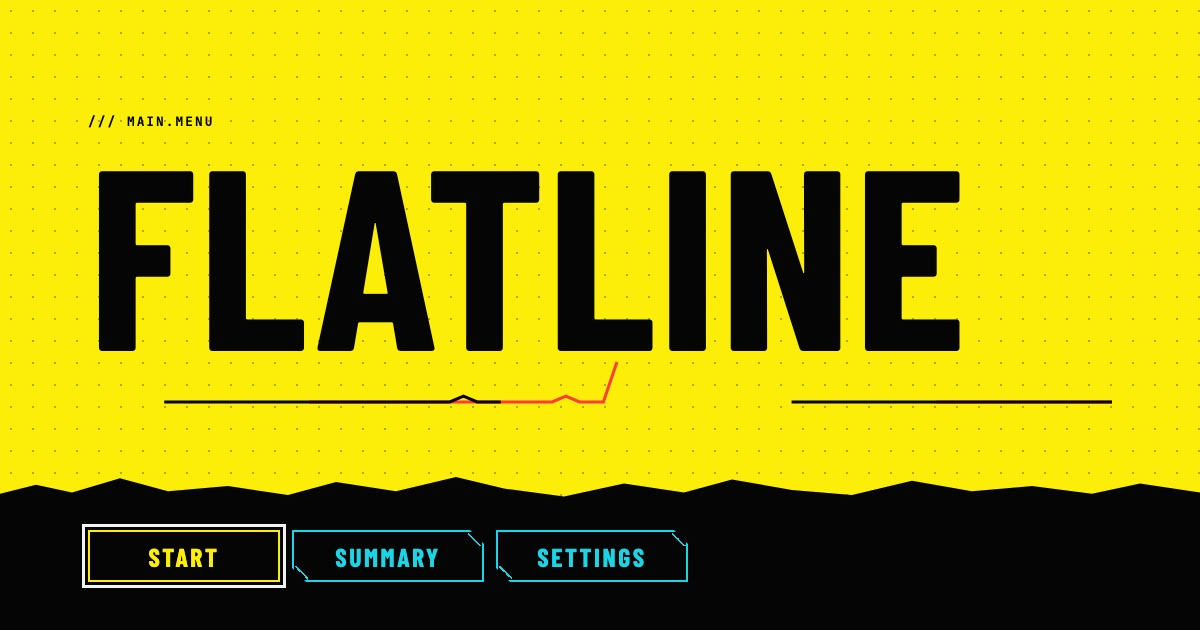
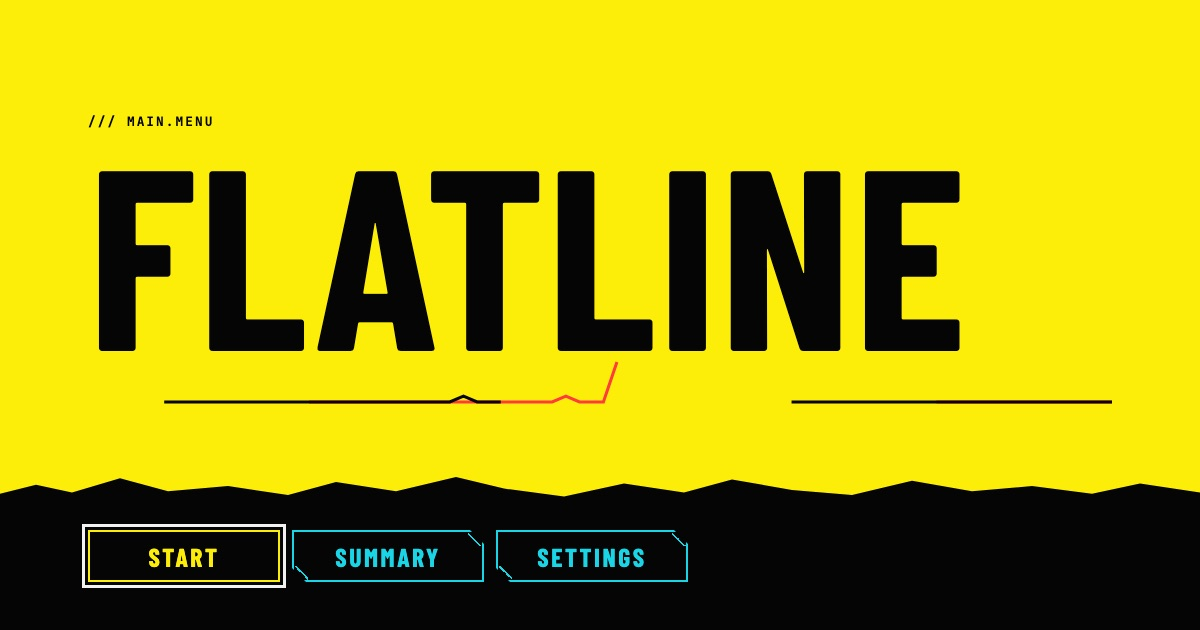
Remove the dot pattern from the backgrounds and title poster

diff --git a/src/components/Backdrop.css b/src/components/Backdrop.css
@@ -3,8 +3,6 @@
   inset: 0;
   z-index: -1;
   overflow: hidden;
-  background-image: radial-gradient(var(--grid-dot) 1px, transparent 1.3px);
-  background-size: 22px 22px;
   pointer-events: none;
 }
 
@@ -25,7 +23,7 @@
   opacity: 0.4;
 }
 
-/* Calm mode removes the grain and the scanlines. The dot grid is still, so it stays. */
+/* Calm mode removes the grain and the scanlines. */
 :root[data-calm] .backdrop__noise,
 :root[data-calm] .backdrop__scanlines {
   display: none;

diff --git a/src/components/Backdrop.tsx b/src/components/Backdrop.tsx
@@ -1,6 +1,6 @@
 import './Backdrop.css'
 
-/** Behind everything: a fine dot grid, grain and scanlines. Purely decorative, so hidden from assistive technology. */
+/** Behind everything: grain and scanlines. Purely decorative, so hidden from assistive technology. */
 function Backdrop() {
   return (
     <div className="backdrop" aria-hidden="true">

diff --git a/src/components/TitleScreen.css b/src/components/TitleScreen.css
@@ -15,8 +15,6 @@
   align-content: end;
   padding: var(--space-8) var(--space-6) var(--space-7);
   background-color: var(--color-yellow);
-  background-image: radial-gradient(color-mix(in srgb, var(--color-night) 30%, transparent) 1px, transparent 1.3px);
-  background-size: 22px 22px;
   color: var(--color-night);
 }
 

diff --git a/src/styles/tokens.css b/src/styles/tokens.css
@@ -12,7 +12,6 @@
   /* Surfaces and textures, built from the colors above */
   --surface: #0a0a0a;
   --surface-deep: #070707;
-  --grid-dot: color-mix(in srgb, var(--color-yellow) 20%, transparent);
   --scanline: color-mix(in srgb, var(--color-night) 55%, transparent);
 
   /* Fonts */

diff --git a/CLAUDE.md b/CLAUDE.md
@@ -142,7 +142,7 @@ Cyberpunk in the Cyberpunk 2077 poster style, still seen through Kade's eyes: bl
   - No glows and no large soft gradients. Bright colour is used for hard lines, text and the title poster only.
 - Shapes: hard edges. Panels and buttons have a notched (cut) top-right and bottom-left corner (`styles/notch.css`), never rounded corners. Condensed capitals for display text, small mono `///` labels on panels.
 - Fonts (Google Fonts): Barlow Condensed (display, HUD labels), IBM Plex Sans (story text, for readability), JetBrains Mono (chip lines, choices, numbers)
-- Texture: a faint dot grid, subtle scanlines, a faint noise overlay, chromatic aberration on glitches. All of it is light enough that story text stays easy to read, and all of it turns off in calm mode.
+- Texture: subtle scanlines, a faint noise overlay, chromatic aberration on glitches. All of it is light enough that story text stays easy to read, and all of it turns off in calm mode.
 - Single dark theme, on purpose
 - Chip lines are mono, yellow, prefixed with `>`, and glitch in harder at low death counts (see the chip voice table in the script)
 - Locked choices: dashed yellow border, greyed text, no hint about how to unlock them
